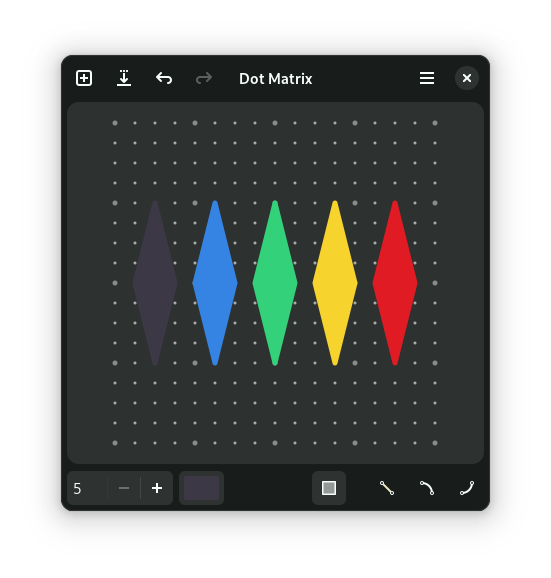
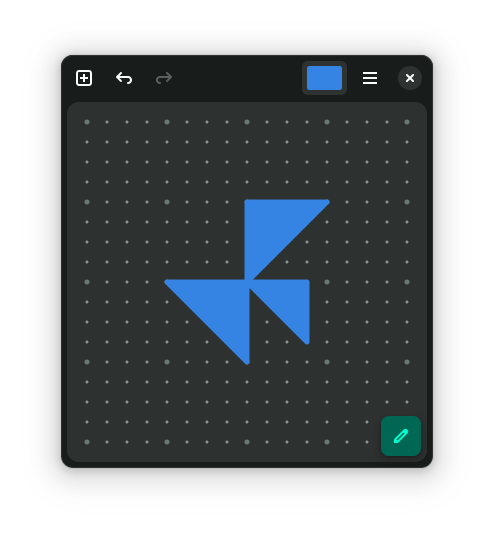
*

diff --git a/data/style.css b/data/style.css
@@ -10,7 +10,7 @@
 @define-color view_fg_color #181d1b;
 @define-color headerbar_fg_color #181d1b;
 
-.rotated {
+.rotated image {
   transform: rotate(90deg);
 }
 
@@ -28,7 +28,7 @@
 .dm-view {
   background: @view_bg_color;
   border-radius: 12px;
-  margin: 0 6px;
+  margin: 0 6px 6px;
 }
 
 .dm-list .boxed-list {
@@ -41,4 +41,29 @@
   background: none;
   border: 1px solid @borders;
   box-shadow: none;
+}
+
+.list-action-button .toggle {
+  padding: 8px;
+  border-radius: 8px;
+  box-shadow: 0 1px 3px 0 alpha(black, 0.3),
+              0 4px 8px 3px alpha(black, 0.15);
+}
+.list-action-button .toggle:hover {
+  box-shadow: 0 2px 3px 0 alpha(black, 0.3),
+              0 6px 10px 4px alpha(black, 0.15);
+}
+.list-action-button .toggle:active {
+  box-shadow: 0 1px 3px 0 alpha(black, 0.3),
+              0 4px 8px 3px alpha(black, 0.15);
+}
+.list-action-button.accent-button .toggle {
+  background: @accent_bg_color;
+  color: @accent_fg_color;
+}
+.list-action-button.accent-button .toggle:hover {
+  background: shade(@accent_bg_color, 1.024);
+}
+.list-action-button.accent-button .toggle:active {
+  background: shade(@accent_bg_color, 0.95);
 }

diff --git a/data/style-dark.css b/data/style-dark.css
@@ -1,6 +1,6 @@
 @define-color accent_color #76ffdc;
-@define-color accent_bg_color #59ffd8;
-@define-color accent_fg #004e3f;
+@define-color accent_bg_color #006754;
+@define-color accent_fg #00FED1;
 @define-color window_bg_color #181d1b;
 @define-color view_bg_color #2d3130;
 @define-color headerbar_bg_color #181d1b;
